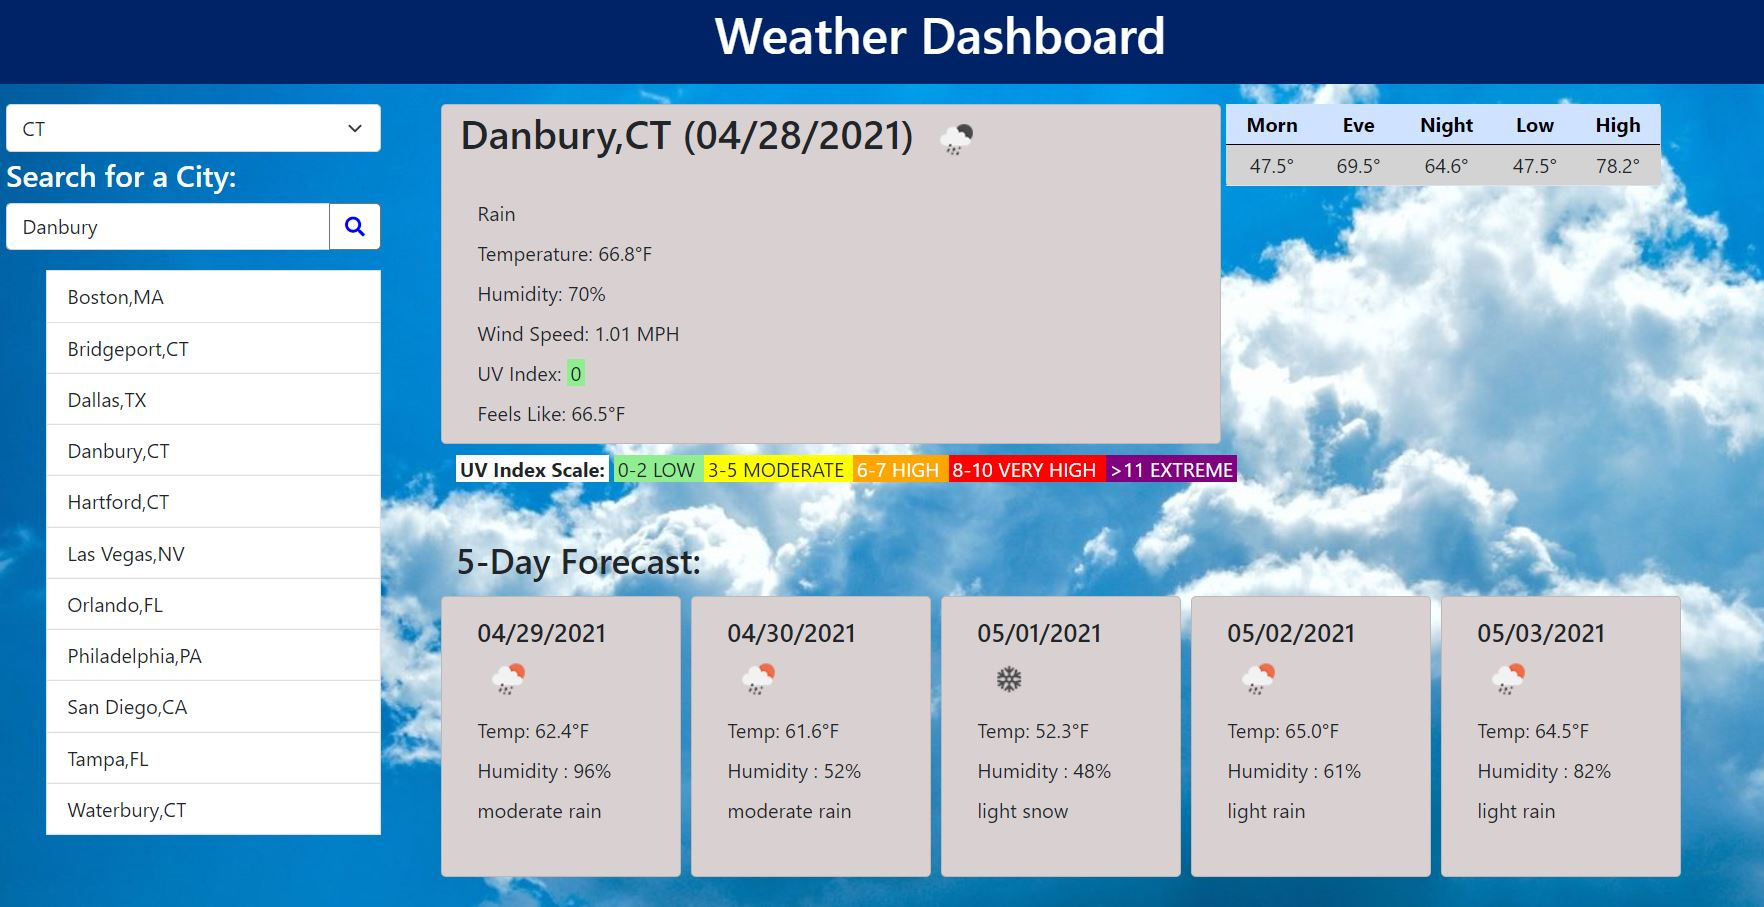
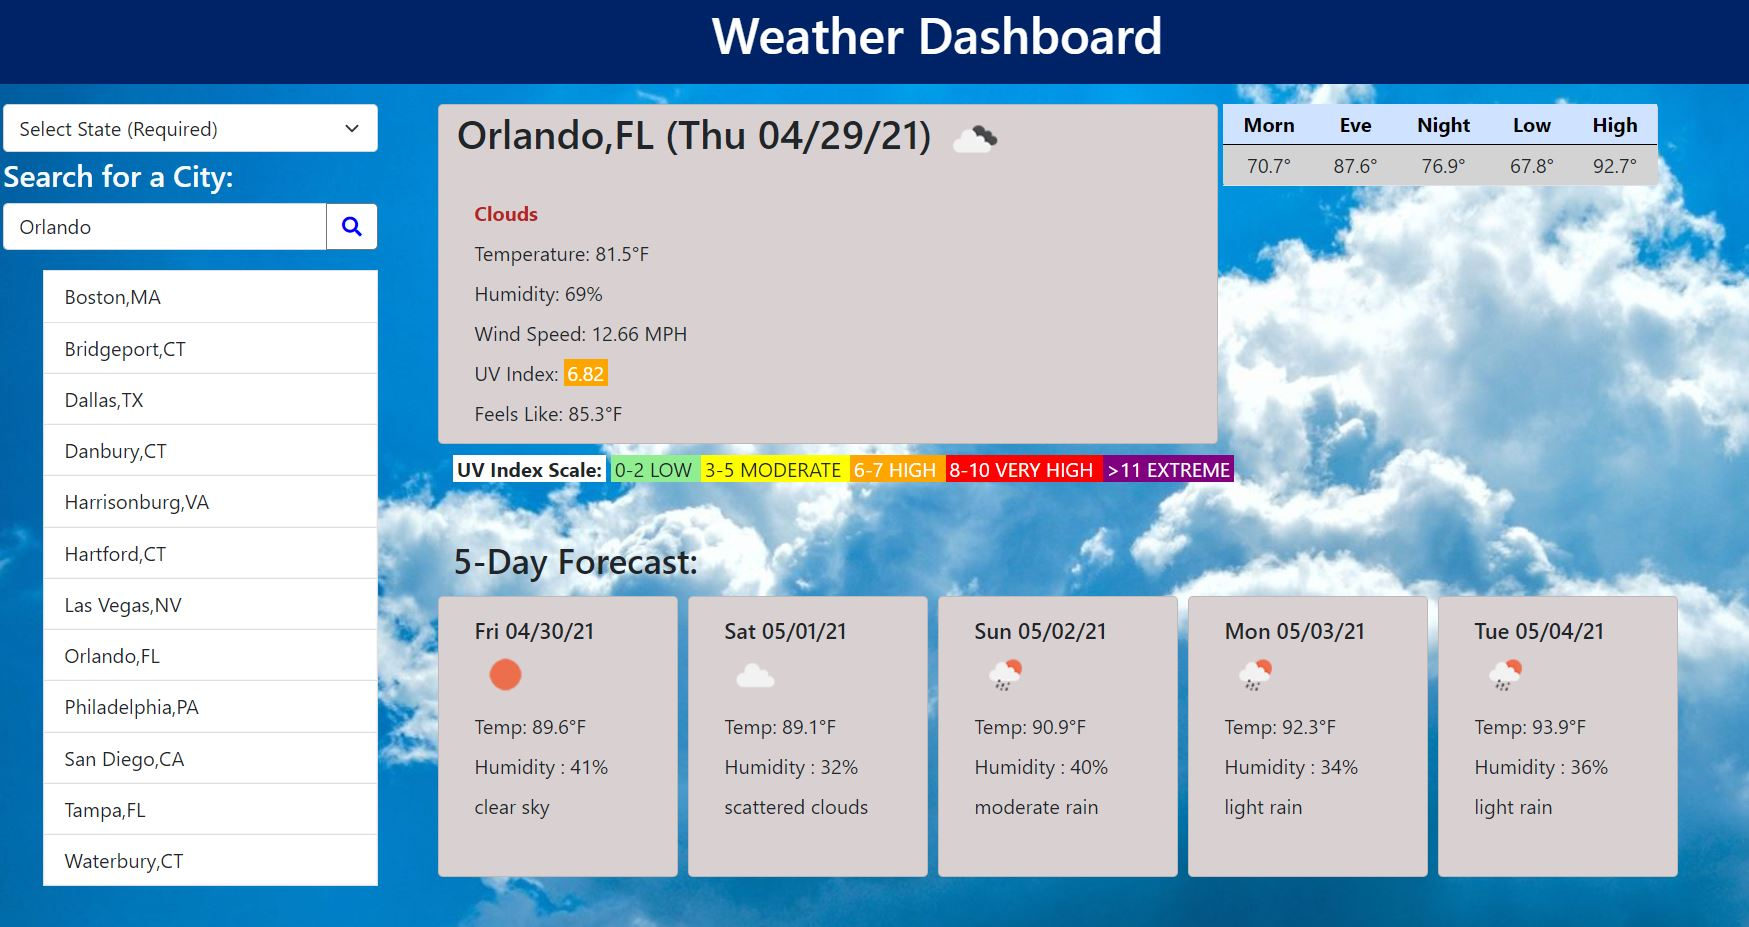
Finished the Readme file

diff --git a/assets/js/scripts.js b/assets/js/scripts.js
@@ -34,7 +34,7 @@ function getWeather(requestUrl) {
       .then(function (response) {return response.json()})
       .then(function(data){
         
-        searchCity.textContent =cityName.value + "," + stateName + " (" + moment.unix(data.current.dt).format("MM/DD/YYYY") + ") ";
+        searchCity.textContent =cityName.value + "," + stateName + " (" + moment.unix(data.current.dt).format("ddd") + " " + moment.unix(data.current.dt).format("MM/DD/YY") + ") ";
         // Add the weather icon to the main card. 
         newI.src= iconUrl + data.current.weather[0].icon +".png"
         searchCity.appendChild(newI);
@@ -113,7 +113,7 @@ function getWeather(requestUrl) {
       var newImage = document.createElement("img");
 
       child = children[0].children[0]; // The header tag in the card.
-      child.textContent = moment.unix(data.daily[i].dt).format("MM/DD/YYYY");
+      child.textContent = moment.unix(data.daily[i].dt).format("ddd") + " " + moment.unix(data.daily[i].dt).format("MM/DD/YY");
       newImage.src= iconUrl + data.daily[i].weather[0].icon +".png"
       child.appendChild(newImage); // Add the weather icon to the h5 tag. 
 

diff --git a/assets/css/styles.css b/assets/css/styles.css
@@ -83,3 +83,6 @@ li:hover {
   color: rgb(182, 36, 36);
   font-size: 1em;
 }
+h5 {
+  font-size: 1.1rem;
+}

diff --git a/README.md b/README.md
@@ -1,7 +1,50 @@
 # 🌤 Weather Dashboard
 
 ```
-Application to pull weather data for a given city
+Application for travelers to pull current and 5-day forecast for potential travel destinations.
 
 ```
 
+## 📋 Criteria
+
+- The application should allow a user to select a State and City to pull weather data for.
+- The current data will display: City, State, Date, Temperature, Humidity, Wind Speed, UV index.
+- The results will display an icon representing the current conditions along with a color indicator for the UV Index.
+- A 5-day forecast will be shown containing Date, Temperature, Humidity and an icon representing the future weather conditions.
+- The application should store the search results in local storage and allow the user to quickly check the weather for cities done in a prior search.
+- The data source to be used will be the [Openweathermap](https://openweathermap.org) API.
+
+---
+
+## 1⃣ Steps used
+
+1. Created the dashboard layout with HTML, Bootstrap, and CSS.
+2. Tested 2 API's from Openweathermap, the [Geocoding API](https://openweathermap.org/api/geocoding-api) to pull Lat and Lon coordinates to be used as parameters for the newer [One Call API](https://openweathermap.org/api/one-call-api) which returns a 7-day forecast.
+3. Added Bootstrap button, select and card controls to the interface.
+4. Added [icons](http://openweathermap.org/img/wn/04d.png) to the weather results from Openweather based on the icon name in the result set.
+5. Added a custom js file, included variables and functions to work with moment.js, and Openweather.
+6. Created functions for the JSON results to populate the dashboard and to save and retrieve data from local storage.
+7. Added a custom css file for styling outside of Bootstrap.
+8. Added a UV index scale to show the severity of the weather conditions.
+9. Added a table to show the daily temperatures for the current day for High, Low, and Morn, Eve and Night timeframes.
+
+Final results: [Weather Dashboard](https://malmason.github.io/weather-api/)
+
+---
+
+## 📸 Screenshots
+
+**Weather Dashboard**
+
+![Home screen](assets/images/homescreen.jpg)
+
+**Current Day Card** - Detailed weather forecast for the current day, along with a UV Index scale.
+![Main Card](assets/images/maincard.jpg)
+
+## 📱 Contact
+
+Malcolm Mason - [Github](https://github.com/malmason) Email: [Malcolm](mailto:malmason66@gmail.com) 📧
+
+---
+
+&copy; 2021 Malcolm Mason
